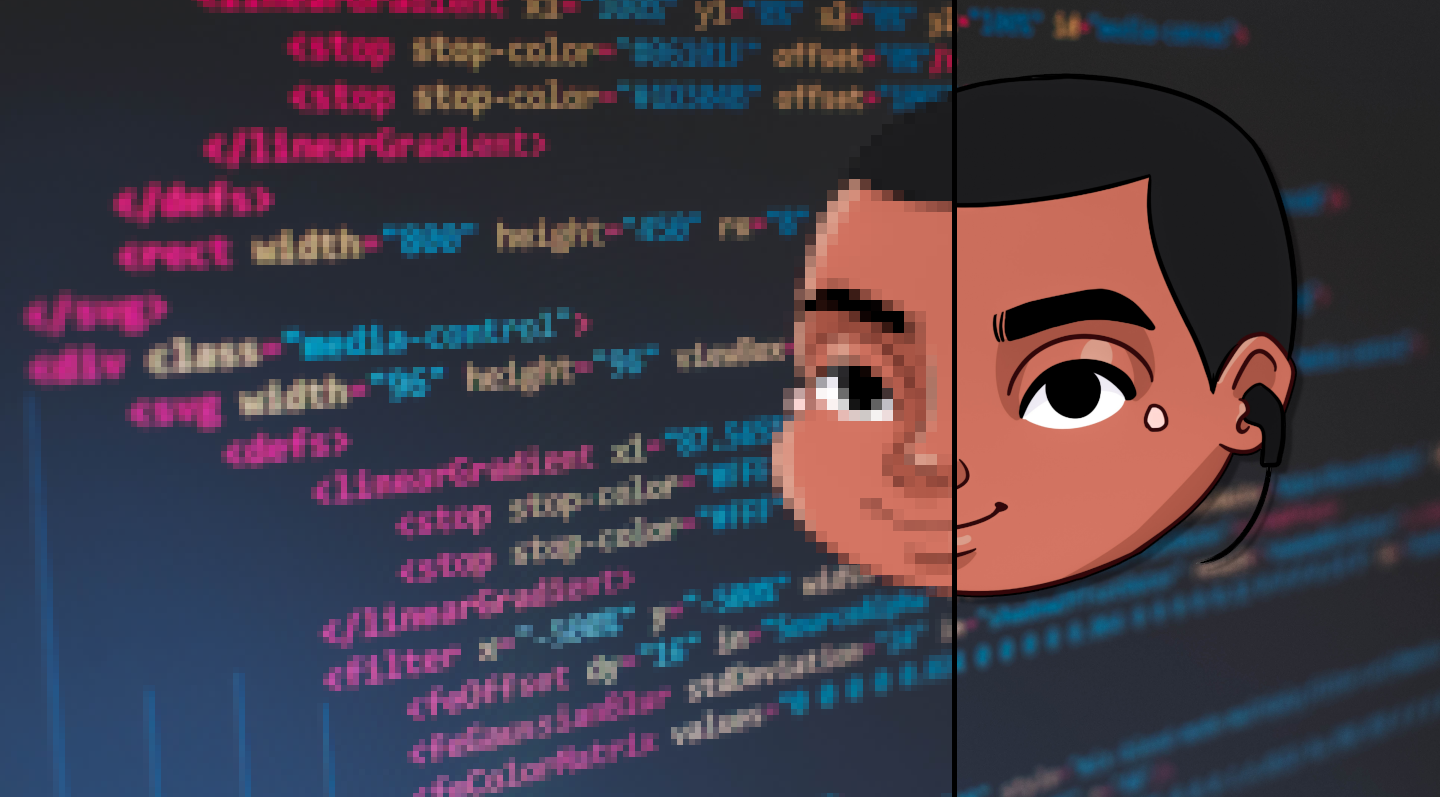
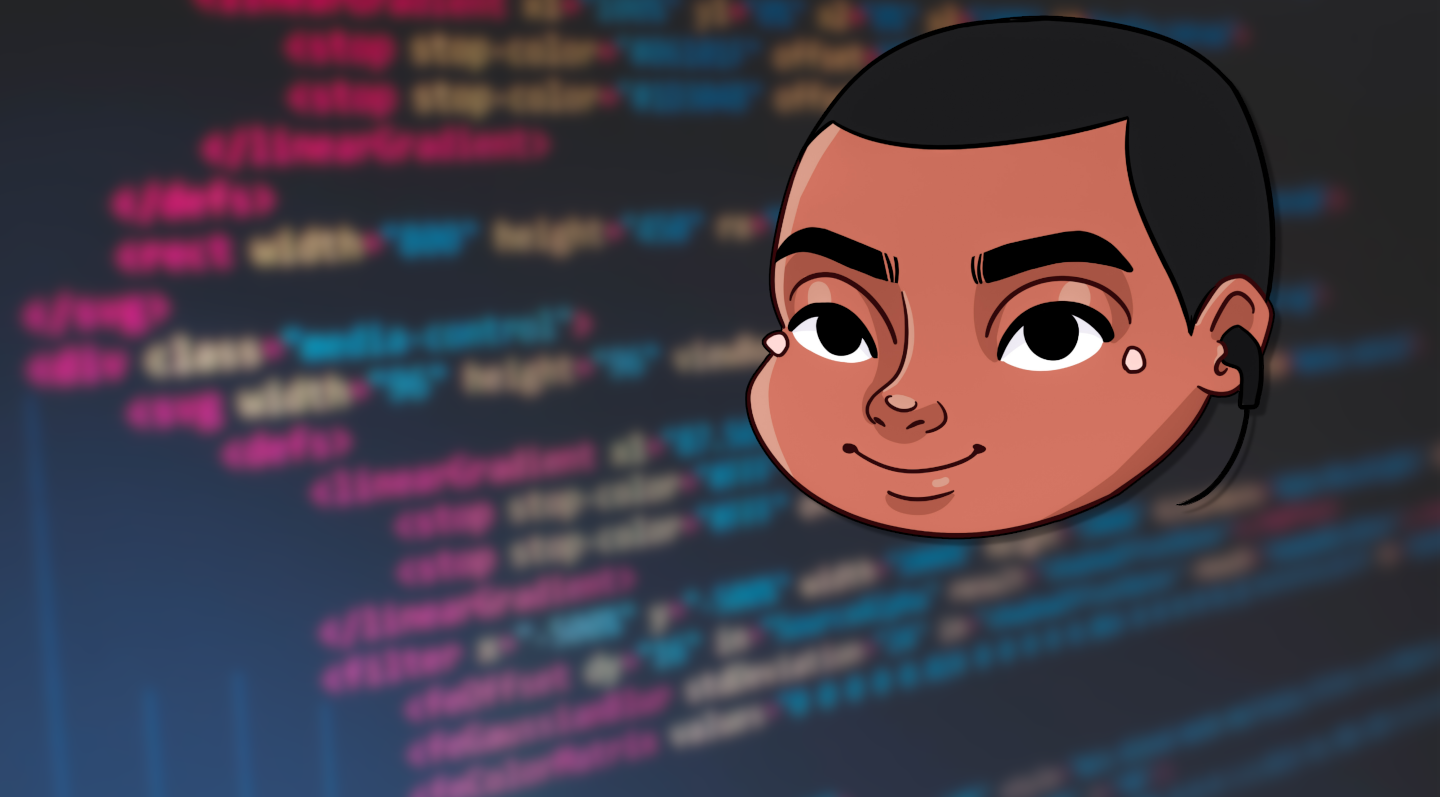
Modify background

Changed region(s): [[0.0, 0.0, 0.9062, 1.0], [0.8125, 0.0903, 0.875, 0.1807], [0.8125, 0.0602, 0.8438, 0.0903]]

diff --git a/CSS/components/main-banner.CSS b/CSS/components/main-banner.CSS
@@ -1,10 +1,10 @@
 .main-banner {
     box-sizing: border-box;
     background-color: #b298dc;
-    background-image: url(../../assets/img/background.png);
+    background-image: url(../../assets/img/background2.png);
     background-repeat: no-repeat;
-    background-size: 100%;
-    height: 550px;
+    background-size: cover;
+    height: 610px;
     border-bottom: 10px solid #000;
     padding-top: 5%;
     padding-left: 5%;
